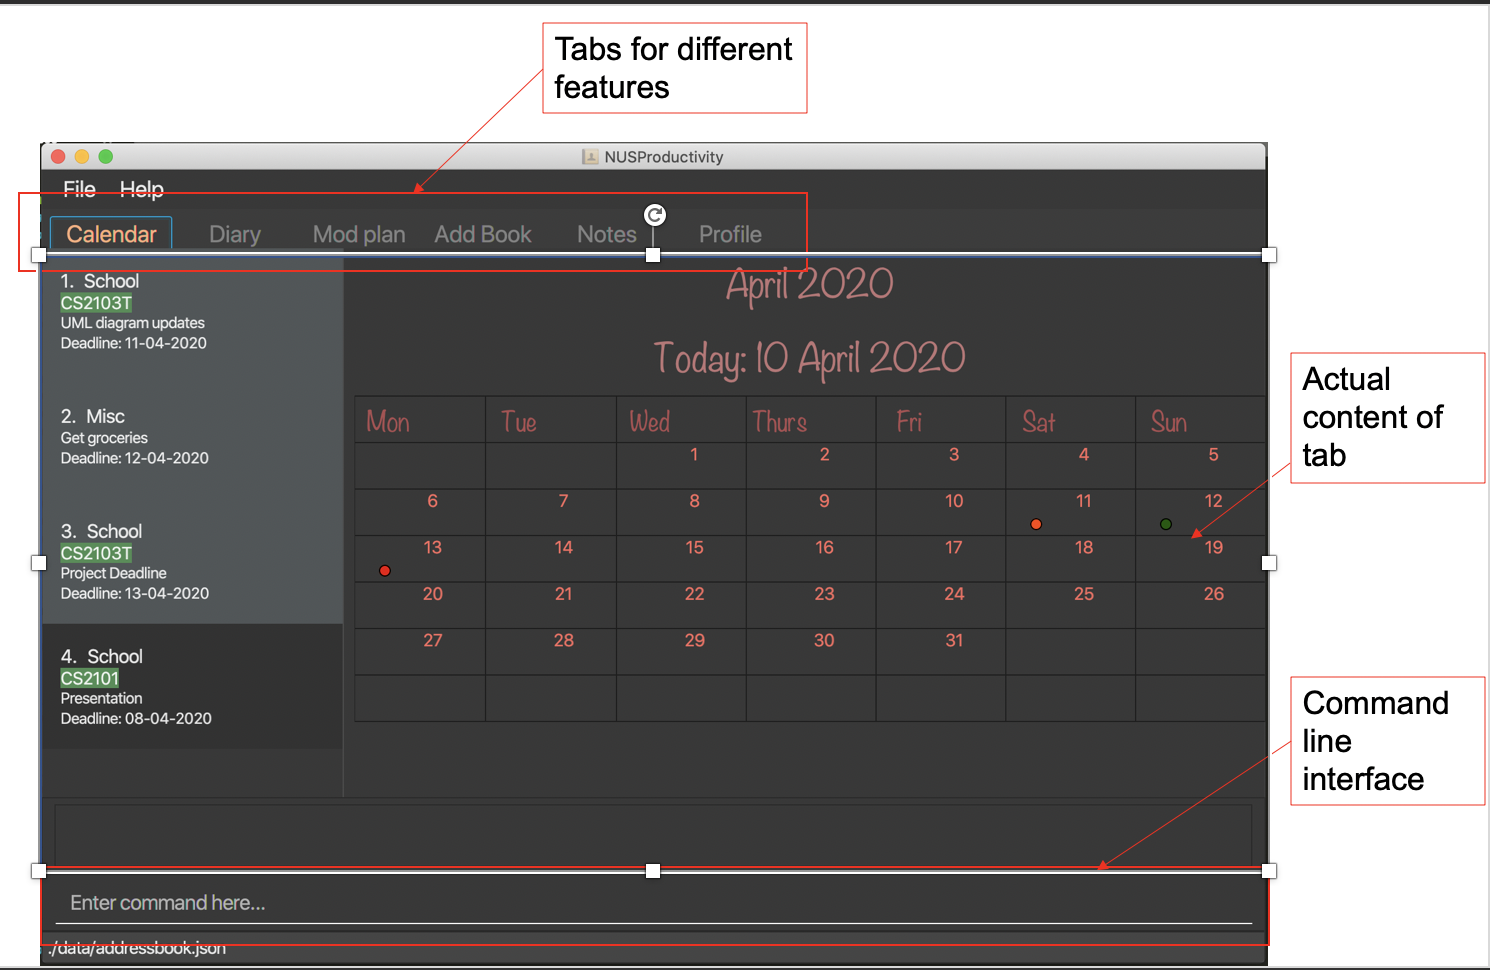
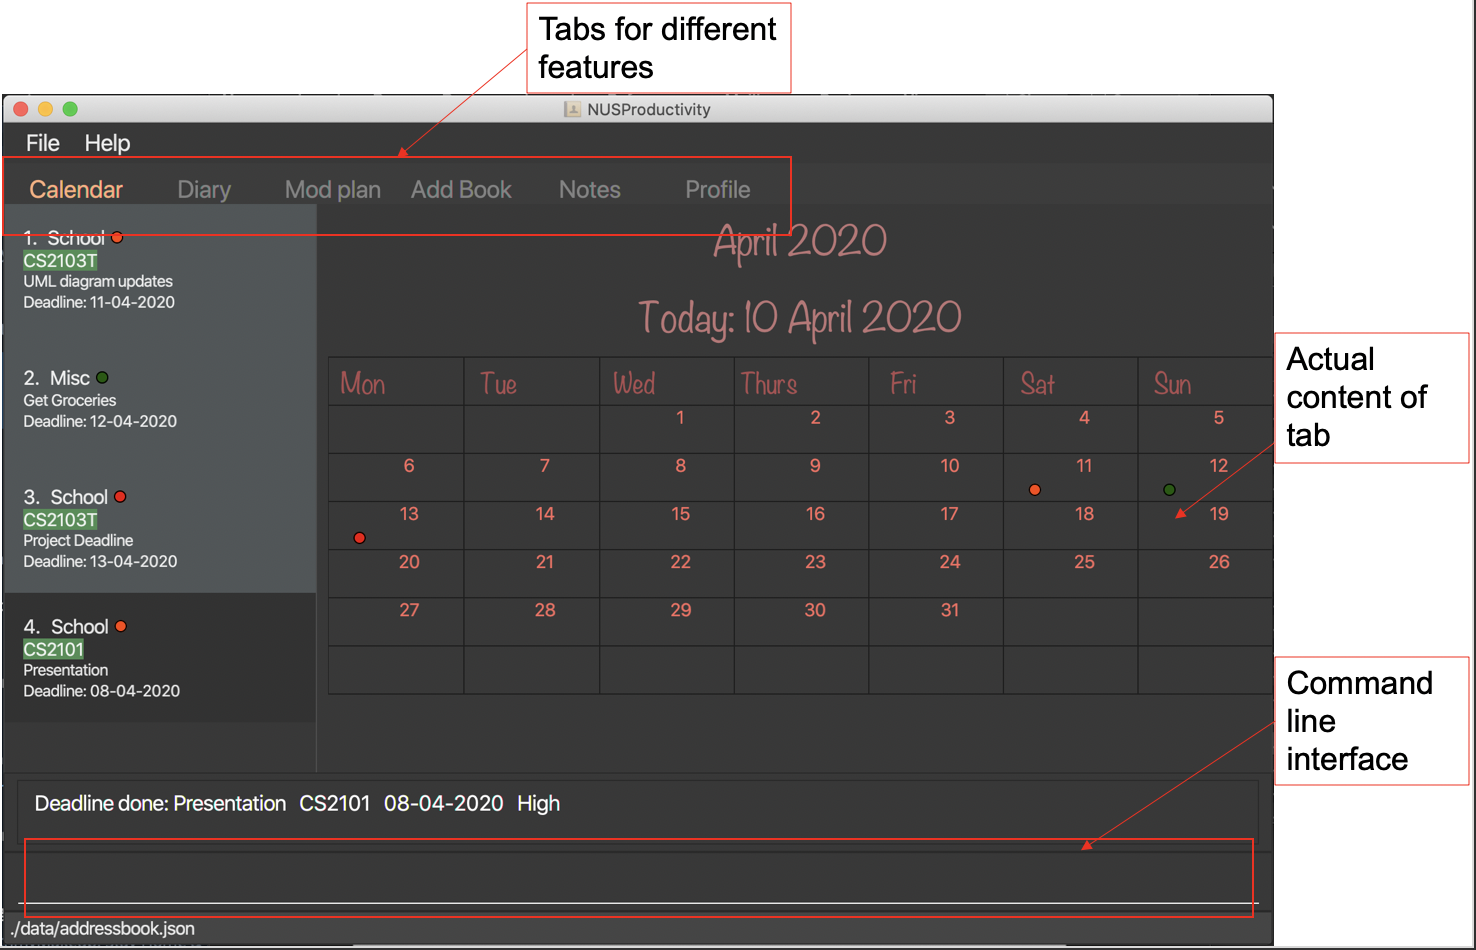
Added visuals for UG for calendar

diff --git a/src/main/java/seedu/address/ui/CalenderDeadline.java b/src/main/java/seedu/address/ui/CalenderDeadline.java
@@ -5,8 +5,10 @@ import javafx.scene.control.Label;
 import javafx.scene.layout.FlowPane;
 import javafx.scene.layout.HBox;
 import javafx.scene.layout.Region;
+import javafx.scene.shape.Circle;
 import seedu.address.model.calender.Task;
 import seedu.address.model.nusmodule.ModuleTask;
+import seedu.address.model.nusmodule.Priority;
 
 /**
  * An UI component that displays information of a {@code Person}.
@@ -37,6 +39,8 @@ public class CalenderDeadline extends UiPart<Region> {
     private Label date;
     @FXML
     private FlowPane modCode;
+    @FXML
+    private Circle circle;
 
 
     public CalenderDeadline(Task deadline, int displayedIndex) {
@@ -48,6 +52,9 @@ public class CalenderDeadline extends UiPart<Region> {
         date.setText("Deadline: " + deadline.getDate());
         if (deadline instanceof ModuleTask) {
             setModuleTask(deadline);
+            setPriorityColour(((ModuleTask) deadline).getPriority());
+        } else {
+            setPriorityColour(Priority.VERYLOW);
         }
         setStatusColor();
 
@@ -66,6 +73,27 @@ public class CalenderDeadline extends UiPart<Region> {
             cardPane.setStyle("-fx-background-color: #323232");
         } else {
             cardPane.setStyle("-fx-background-color: #515658");
+        }
+    }
+
+    /**
+     * Changes colour of the circle based on priority
+     * @param priority
+     */
+    public void setPriorityColour(Priority priority) {
+
+        String priorityLevel = priority.toString();
+
+        if (priorityLevel.equals("Very high")) {
+            circle.setStyle("-fx-fill: #dd2c00");
+        } else if (priorityLevel.equals("High")) {
+            circle.setStyle("-fx-fill: #ff5722");
+        } else if (priorityLevel.equals("Medium")) {
+            circle.setStyle("-fx-fill: #f2ed6f");
+        } else if (priorityLevel.equals("Low")) {
+            circle.setStyle("-fx-fill: #639a67");
+        } else {
+            circle.setStyle("-fx-fill: #2b580c");
         }
     }
 
